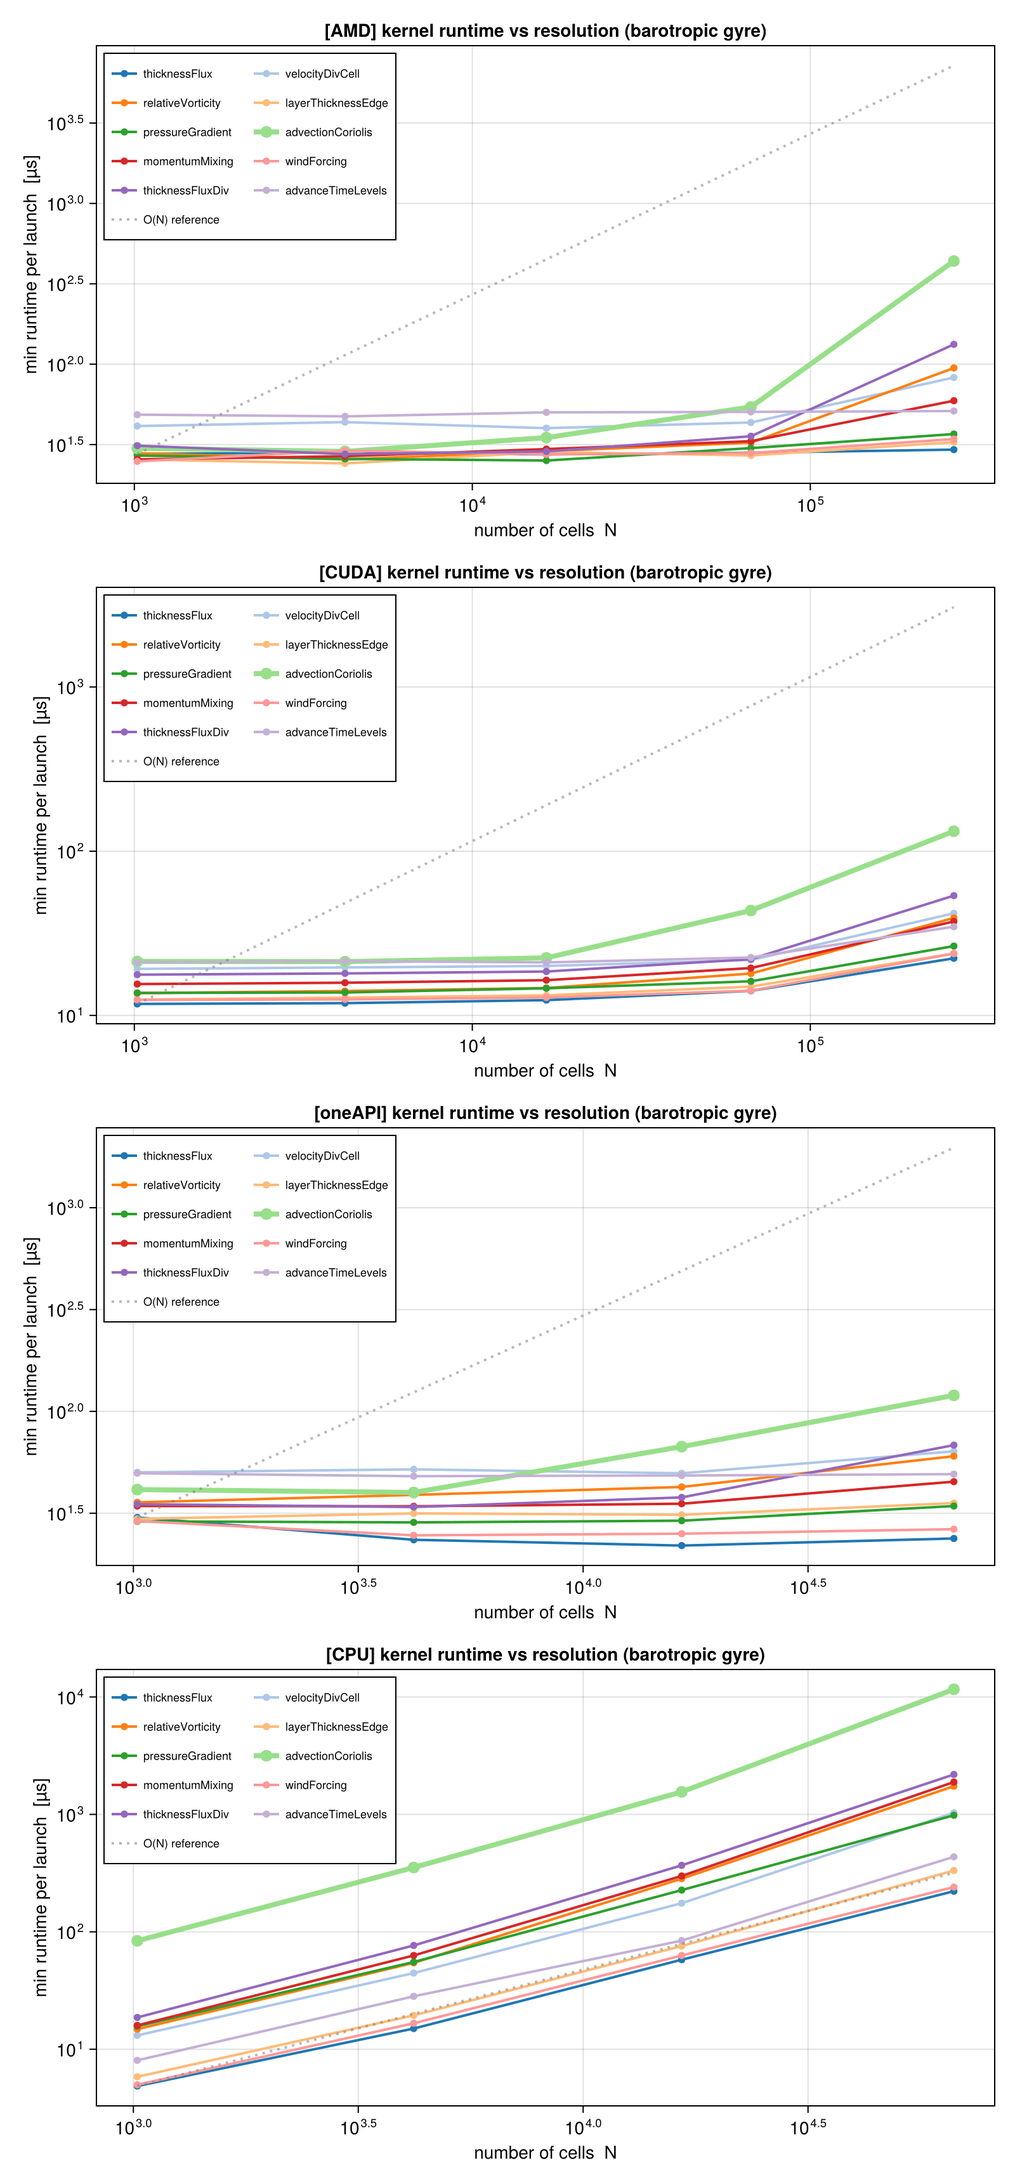
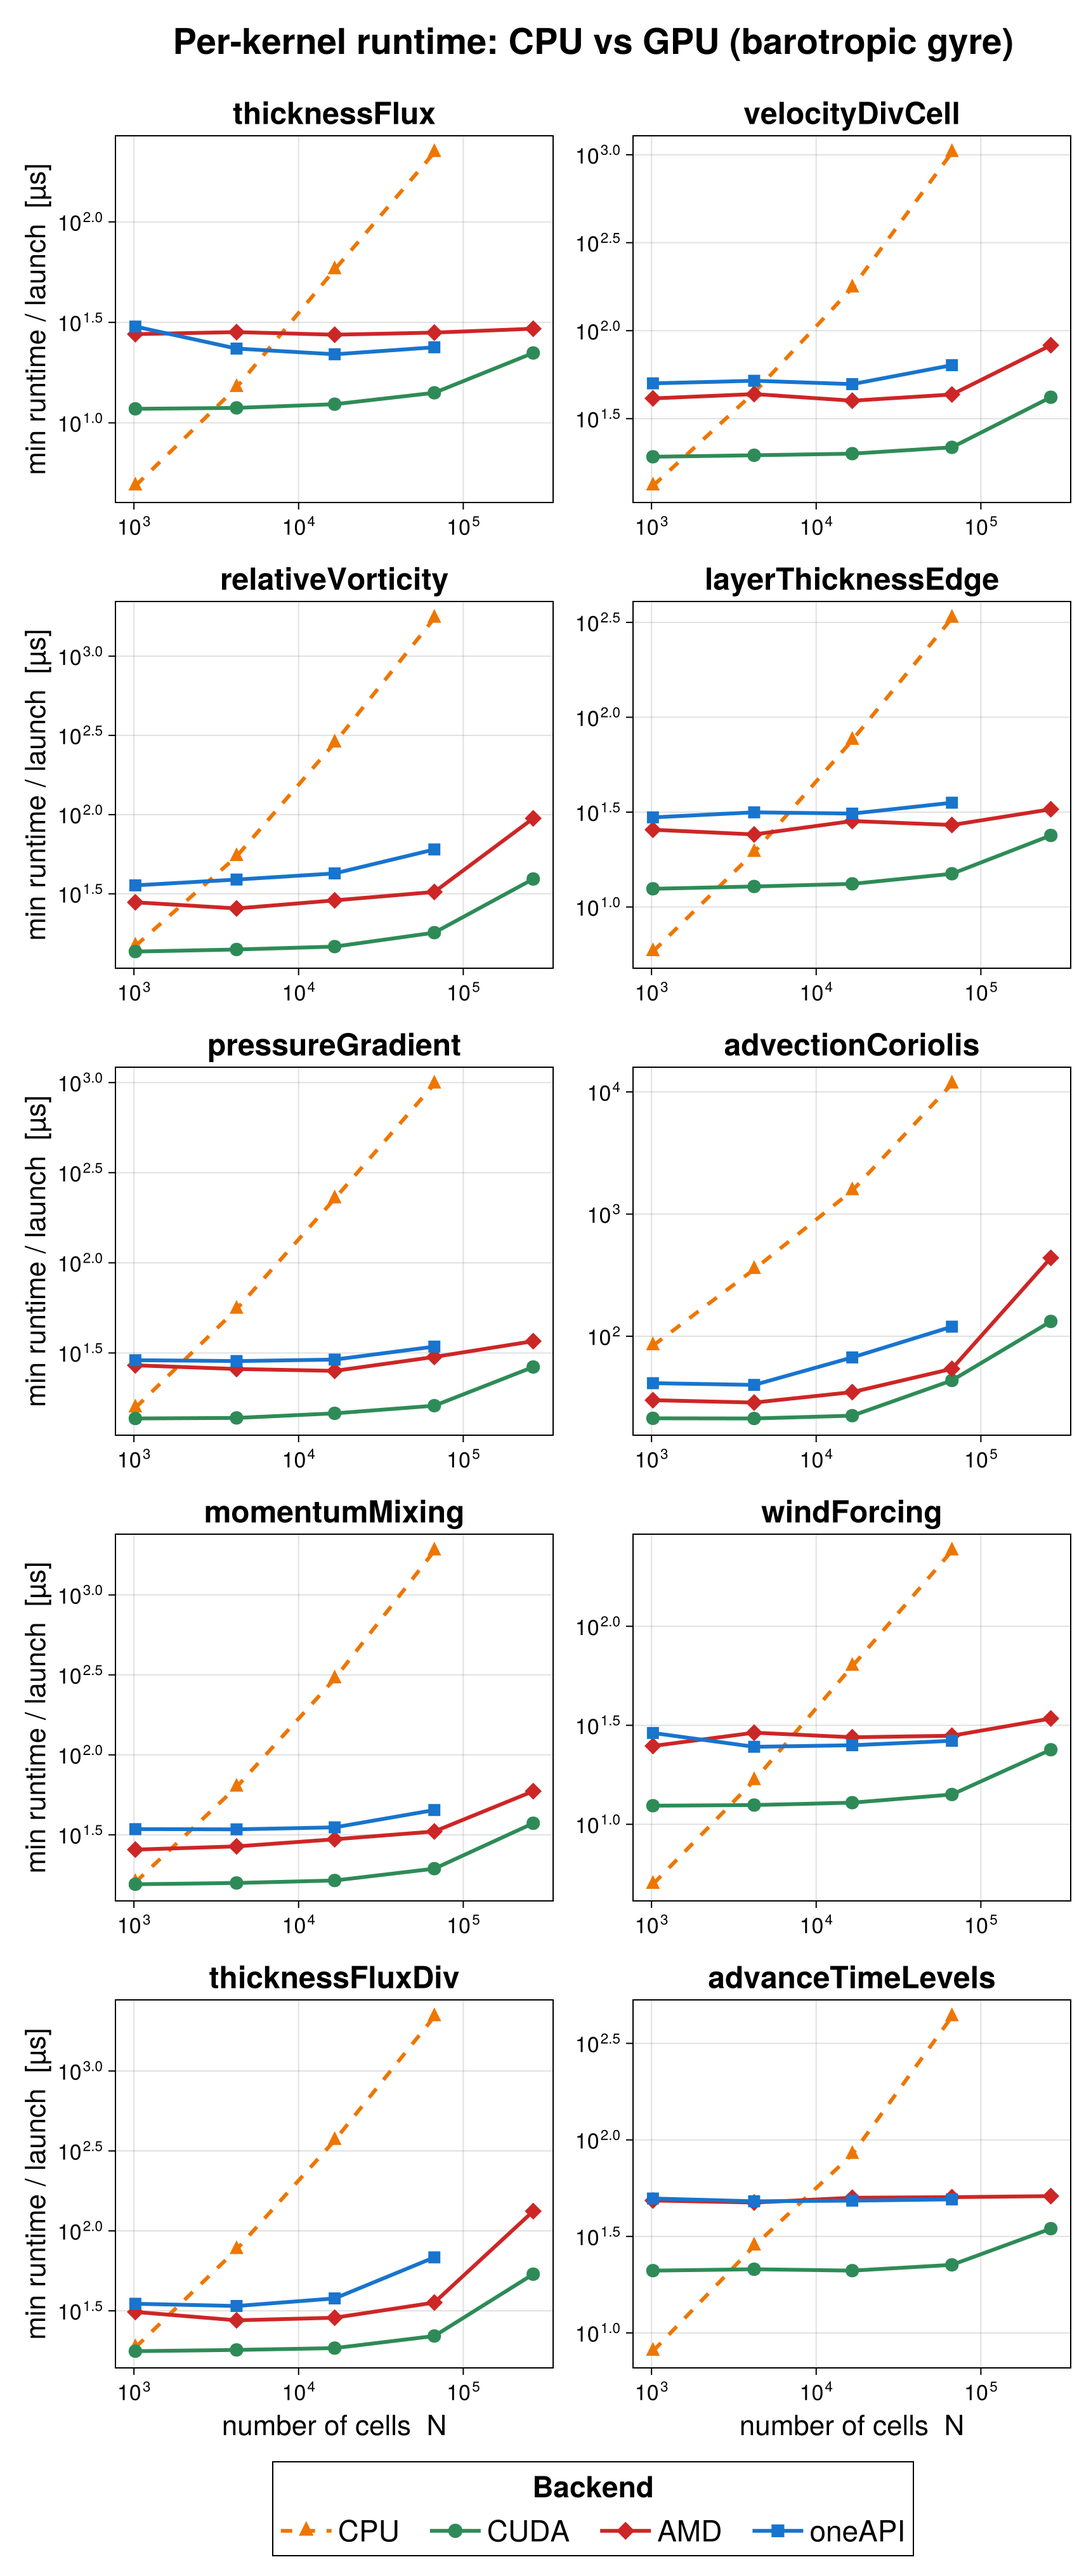
Updated plots for docs and README

diff --git a/README.MD b/README.MD
@@ -1,26 +1,9 @@
 # :coffee: `Moka.jl`: MPAS Ocean (using) kernel abstractions 
 
-[![Docs](https://img.shields.io/badge/docs-stable-blue.svg)](https://GodotMisogi.github.io/Moka.jl/)
+[![Docs](https://img.shields.io/badge/docs-stable-blue.svg)](https://SCIgithub.io/Moka.jl/)
 [![DOI](https://zenodo.org/badge/DOI/10.5281/zenodo.7493065.svg)](https://doi.org/10.5281/zenodo.7493065)
 
 An ocean model capable of running on irregular, non-rectilinear, TRiSK-based meshes. Inspired by MPAS-Ocean in Fortran.
-
-**Why remake a great, working ocean model in Julia?**
-
-Some languages are easy to develop at the cost of executing slowly, while others are lightning fast at run time but much more difficult to write. Julia is a programming language that aims to be the best of both worlds, a development and production language at the same time. To test Julia’s utility in scientific high-performance computing (HPC), we built a MPAS Shallow Water core in Julia and compared it with existing codes. We began with a simple single-processor implementation of the equations, and then ran unit tests and convergence studies for verification purpose. Subsequently, we parallelized the code by rewriting the time integrators as graphics card kernels. The GPU accelerated model achieved an amazing 500 times performance boost from the single-processor version. Finally, to make our model comparable to Fortran MPAS-Ocean, we wrote methods to divide the computational work over multiple cores of a cluster with MPI. We then performed equivalent simulations with the Julia and Fortran codes to compare the speeds, and learn how useful Julia might be for climate modeling and other HPC applications.
-
-
-Currently only includes gravity, coriolis terms (no non-linear terms).
-
-
-
-## Documentation
-
-Full documentation — installation, a step-by-step tutorial, how-to guides
-(GPU backends, automatic differentiation, configuration, benchmarks), the
-governing equations and TRiSK discretization, and the API reference — is at:
-
-**https://GodotMisogi.github.io/Moka.jl/**
 
 ## Quickstart
 
@@ -38,18 +21,11 @@ julia --project=. src/driver/mpas_ocean.jl examples/barotropic_gyre/10km/config.
 julia --project=. src/driver/mpas_ocean.jl examples/barotropic_gyre/10km/config.yml cuda
 ```
 
-See the [Getting started](https://GodotMisogi.github.io/Moka.jl/tutorials/getting_started/)
-tutorial for the equivalent Julia-API workflow.
-
 ## Features
 
+- **Unstructured grids** — TRiSK discretization on MPAS Voronoi meshes.
 - **Performance portable** — one KernelAbstractions.jl kernel set runs on CPU and
   on NVIDIA (CUDA), AMD (ROCm), and Intel (oneAPI) GPUs, selected at runtime via
   package extensions.
 - **Differentiable** — forward- and checkpointed reverse-mode gradients via
   Enzyme.jl and Checkpointing.jl, validated against finite differences.
-- **Unstructured grids** — TRiSK discretization on MPAS Voronoi meshes.
-
-Verification cases (`examples/`): a wind-driven barotropic (Munk) gyre and an
-inertial gravity wave, each with an analytic reference, plus AD validation tests
-and performance benchmarks.

diff --git a/docs/src/howto/run_benchmarks.md b/docs/src/howto/run_benchmarks.md
@@ -39,9 +39,12 @@ julia examples/plot_resolution_scaling_benchmark.jl
 ```
 
 Select the problem family with the `RES_BENCH_PROBLEM` environment variable
-(`gyre` or `igw`).
+(`gyre` or `igw`). The plot script writes one figure per problem case, with the
+problem name appended before the extension — e.g.
+`resolution_scaling_benchmark_gyre.png` for the forward model and
+`resolution_scaling_ad_benchmark_gyre.png` for the checkpointed adjoint.
 
-![Forward-model runtime versus cell count on each backend](../assets/resolution_scaling_benchmark.png)
+![Forward-model runtime versus cell count on each backend](../assets/resolution_scaling_benchmark_gyre.png)
 
 The GPU backends show favorable sub-linear scaling as resolution increases, in
 contrast to the linear growth on CPU — the same kernels, unchanged, across
